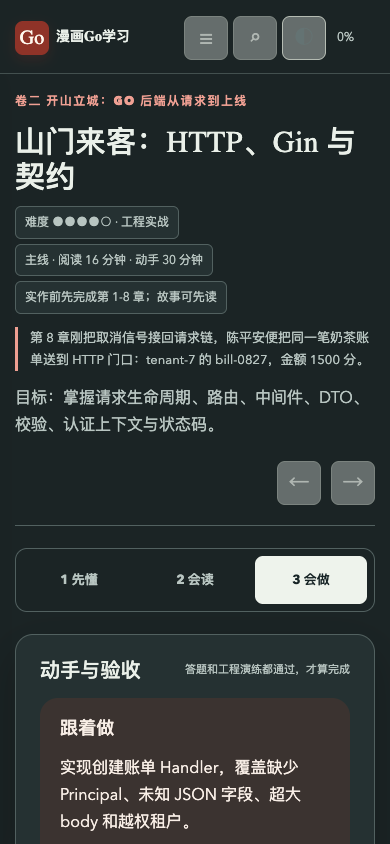
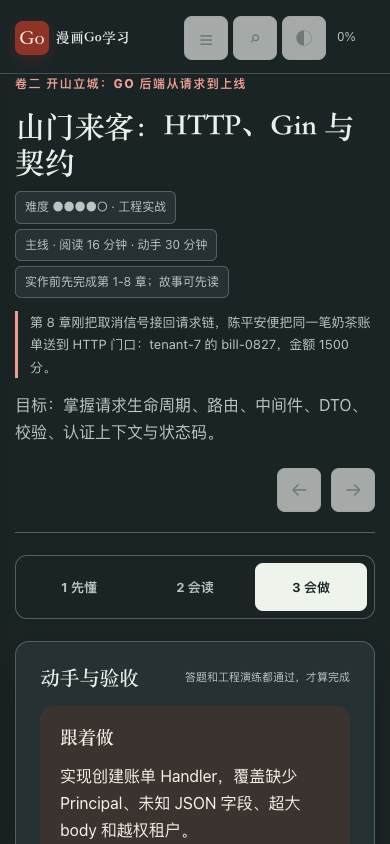
style: elevate aesthetics to refined ink-paper and craft engineering taste

diff --git a/interactive/styles.css b/interactive/styles.css
@@ -1,22 +1,22 @@
 :root {
-  --paper: #f5f1e9;
-  --paper-strong: #fffdf8;
-  --ink: #202a2c;
-  --muted: #526466;
-  --line: #ddd6c8;
-  --green: #98e56f;
-  --green-deep: #2d6a3e;
+  --paper: #f7f4ed;
+  --paper-strong: #fefdfa;
+  --ink: #1c2628;
+  --muted: #4e6063;
+  --line: #dbd4c5;
+  --green: #b54732;
+  --green-deep: #245834;
   --red: #8f3328;
-  --red-soft: #f7e5de;
-  --teal: #dcebe8;
-  --blue: #32616a;
-  --shadow: 0 18px 45px rgba(56, 48, 35, .08);
-  --radius: 18px;
+  --red-soft: #faeee9;
+  --teal: #e2ece9;
+  --blue: #2b555e;
+  --shadow: 0 16px 40px rgba(38, 32, 24, .06), 0 2px 6px rgba(38, 32, 24, .03);
+  --radius: 14px;
 }
 
 * { box-sizing: border-box; }
 html { scroll-behavior: smooth; }
-body { margin: 0; color: var(--ink); background: var(--paper); font-family: "Avenir Next", "Noto Sans CJK SC", "PingFang SC", system-ui, sans-serif; line-height: 1.7; }
+body { margin: 0; color: var(--ink); background: var(--paper); font-family: -apple-system, BlinkMacSystemFont, "Segoe UI", "PingFang SC", "Hiragino Sans GB", "Noto Sans CJK SC", "Microsoft YaHei", sans-serif; line-height: 1.7; -webkit-font-smoothing: antialiased; -moz-osx-font-smoothing: grayscale; }
 button, input, textarea { font: inherit; }
 button { cursor: pointer; }
 button:active { transform: translateY(1px); }
@@ -25,9 +25,9 @@ button:focus-visible, a:focus-visible, input:focus-visible, textarea:focus-visib
 .sr-only { position: absolute; width: 1px; height: 1px; padding: 0; margin: -1px; overflow: hidden; clip: rect(0, 0, 0, 0); white-space: nowrap; border: 0; }
 .topbar { height: 72px; padding: 0 28px; display: flex; align-items: center; justify-content: space-between; position: sticky; top: 0; z-index: 20; background: color-mix(in srgb, var(--paper) 90%, transparent); backdrop-filter: blur(16px); border-bottom: 1px solid color-mix(in srgb, var(--line) 72%, transparent); }
 .brand { display: flex; align-items: center; gap: 11px; min-height: 44px; color: inherit; text-decoration: none; }
-.brand-mark { width: 34px; height: 34px; border-radius: 8px; display: grid; place-items: center; color: #fff8ef; background: #8f3328; font-family: serif; font-size: 20px; box-shadow: 0 5px 12px rgba(143, 51, 40, .2); }
+.brand-mark { width: 34px; height: 34px; border-radius: 8px; display: grid; place-items: center; color: #fff8ef; background: #8f3328; font-family: "Songti SC", "Source Han Serif SC", STSong, Georgia, serif; font-size: 20px; box-shadow: 0 5px 12px rgba(143, 51, 40, .2); }
 .brand strong, .brand small { display: block; line-height: 1.2; }
-.brand strong { font-family: serif; letter-spacing: .08em; }
+.brand strong { font-family: "Songti SC", "Source Han Serif SC", STSong, Georgia, serif; letter-spacing: .08em; }
 .brand small { color: var(--muted); font-size: 11px; margin-top: 3px; }
 .top-actions, .unit-actions, .welcome-actions { display: flex; align-items: center; gap: 10px; }
 .icon-button { border: 1px solid var(--line); background: var(--paper-strong); color: var(--ink); width: 44px; height: 44px; border-radius: 8px; display: grid; place-items: center; font-size: 20px; transition: .2s ease; }
@@ -52,25 +52,28 @@ button:focus-visible, a:focus-visible, input:focus-visible, textarea:focus-visib
 .main-content { width: min(1060px, 100%); min-width: 0; margin: 0 auto; padding: 42px clamp(20px, 4vw, 56px) 80px; }
 .welcome { display: grid; grid-template-columns: minmax(0, 1fr) 380px; min-height: 620px; align-items: center; gap: 40px; }
 .eyebrow { margin: 0 0 14px; color: var(--red); font-size: 12px; font-weight: 800; letter-spacing: .12em; text-transform: uppercase; }
-h1, h2, h3 { font-family: serif; font-weight: 500; line-height: 1.15; letter-spacing: .01em; }
-h1 { margin: 0; font-size: clamp(44px, 6vw, 76px); }
+h1, h2, h3 { font-family: "Songti SC", "Source Han Serif SC", "Noto Serif CJK SC", STSong, Georgia, serif; font-weight: 600; line-height: 1.18; letter-spacing: -.01em; }
+h1 { margin: 0; font-size: clamp(44px, 6vw, 72px); }
 h1 em { color: var(--red); font-style: normal; }
-.lead { max-width: 510px; margin: 26px 0 28px; color: var(--muted); font-size: 17px; }
-.primary-button, .secondary-button { border: 0; border-radius: 13px; padding: 12px 18px; color: var(--ink); background: var(--green); box-shadow: 0 8px 18px rgba(71, 129, 65, .15); font-weight: 700; transition: .2s ease; }
-.primary-button:hover, .secondary-button:hover { transform: translateY(-2px); box-shadow: 0 12px 22px rgba(71, 129, 65, .2); }
+.lead { max-width: 510px; margin: 24px 0 28px; color: var(--muted); font-size: 17px; line-height: 1.75; }
+.primary-button, .secondary-button { border: 1px solid rgba(0,0,0,.08); border-radius: 10px; padding: 12px 20px; color: #fffdf8; background: var(--green); box-shadow: 0 4px 14px rgba(143, 51, 40, .20); font-weight: 650; letter-spacing: .02em; transition: transform .18s ease, box-shadow .18s ease, filter .18s ease; }
+.primary-button:hover, .secondary-button:hover { transform: translateY(-1px); filter: brightness(1.04); box-shadow: 0 6px 18px rgba(143, 51, 40, .26); }
 .primary-button span, .secondary-button span { margin-left: 8px; }
-.text-button { border: 0; background: transparent; color: var(--blue); padding: 10px; }
+.text-button { border: 0; background: transparent; color: var(--blue); padding: 10px; font-weight: 600; }
 .stat-strip { display: flex; gap: 22px; margin-top: 42px; color: var(--muted); font-size: 12px; }
 .learning-paths { display: grid; grid-template-columns: repeat(2, 1fr); gap: 8px; margin-top: 22px; }.learning-paths button { min-height: 64px; padding: 10px 12px; display: grid; gap: 3px; text-align: left; border: 1px solid var(--line); border-radius: 8px; color: var(--ink); background: var(--paper-strong); }.learning-paths button:hover { border-color: var(--blue); }.learning-paths span { color: var(--muted); font-size: 11px; }
 .stat-strip strong { color: var(--ink); font-size: 19px; margin-right: 3px; }
-.welcome-scene { min-height: 500px; position: relative; overflow: hidden; border-radius: 38% 38% 20px 20px; background: linear-gradient(145deg, #f1d9c1, #d2dfdb 65%, #b6c7bf); box-shadow: var(--shadow); }
-.mountain { position: absolute; bottom: 110px; width: 0; height: 0; border-left: 170px solid transparent; border-right: 170px solid transparent; border-bottom: 270px solid rgba(102, 143, 143, .35); }
-.mountain-one { left: -80px; transform: rotate(-9deg); }.mountain-two { right: -110px; bottom: 80px; transform: scale(1.2) rotate(8deg); border-bottom-color: rgba(172, 117, 111, .28); }
-.scene-table { position: absolute; left: 12%; right: 7%; bottom: 0; height: 30%; border-radius: 60% 60% 0 0; background: #795947; transform: rotate(-4deg); box-shadow: inset 0 12px 0 rgba(255,255,255,.12); }
-.scene-figure { position: absolute; bottom: 18%; width: 84px; height: 200px; border-radius: 50% 50% 18px 18px; box-shadow: 0 10px 0 rgba(40, 52, 50, .08); }
-.figure-al { left: 20%; background: linear-gradient(#364f54 0 24%, #1c3237 24% 100%); transform: rotate(6deg); }.figure-chen { right: 18%; background: linear-gradient(#283b51 0 24%, #a3b8b7 24% 100%); transform: rotate(-4deg); }
-.scene-dog { position: absolute; left: 46%; bottom: 25%; width: 62px; height: 42px; border-radius: 50% 50% 45% 45%; background: #d3ab77; color: #573e31; display: grid; place-items: center; font-size: 29px; transform: rotate(-8deg); }
-.scene-note { position: absolute; top: 14%; right: 10%; padding: 12px 14px; border: 1px solid rgba(67, 107, 104, .2); border-radius: 12px; background: rgba(255,253,248,.78); color: var(--red); font-size: 12px; transform: rotate(4deg); }.scene-note b { color: var(--ink); font-size: 16px; }
+.welcome-scene { min-height: 500px; position: relative; overflow: hidden; border-radius: 28px; border: 1px solid var(--line); background: radial-gradient(circle at 75% 20%, #fdf8ee 0%, #ebdfcf 45%, #d1deda 100%); box-shadow: var(--shadow); }
+.mountain { position: absolute; bottom: 100px; width: 0; height: 0; border-left: 170px solid transparent; border-right: 170px solid transparent; border-bottom: 270px solid rgba(80, 118, 117, .28); filter: drop-shadow(0 4px 12px rgba(40,50,50,.08)); }
+.mountain-one { left: -70px; transform: rotate(-8deg); }
+.mountain-two { right: -100px; bottom: 75px; transform: scale(1.15) rotate(7deg); border-bottom-color: rgba(150, 95, 88, .22); }
+.scene-table { position: absolute; left: 10%; right: 6%; bottom: 0; height: 28%; border-radius: 40px 40px 0 0; background: #5c4132; transform: rotate(-2.5deg); box-shadow: inset 0 8px 0 rgba(255,255,255,.09), 0 -8px 24px rgba(0,0,0,.08); }
+.scene-figure { position: absolute; bottom: 16%; width: 84px; height: 200px; border-radius: 42px 42px 16px 16px; box-shadow: 0 12px 24px rgba(28, 38, 36, .12); }
+.figure-al { left: 20%; background: linear-gradient(#2d4145 0 24%, #18282b 24% 100%); transform: rotate(5deg); }
+.figure-chen { right: 18%; background: linear-gradient(#243444 0 24%, #94aba9 24% 100%); transform: rotate(-3deg); }
+.scene-dog { position: absolute; left: 46%; bottom: 23%; width: 62px; height: 42px; border-radius: 50% 50% 45% 45%; background: #d3ab77; color: #573e31; display: grid; place-items: center; font-size: 29px; transform: rotate(-6deg); box-shadow: 0 6px 16px rgba(60,40,30,.12); }
+.scene-note { position: absolute; top: 14%; right: 10%; padding: 12px 16px; border: 1px solid rgba(143, 51, 40, .2); border-radius: 10px; background: rgba(254, 253, 250, .92); backdrop-filter: blur(8px); color: var(--red); font-size: 12px; transform: rotate(3deg); box-shadow: 0 8px 20px rgba(0,0,0,.06); }
+.scene-note b { color: var(--ink); font-size: 16px; display: block; margin-top: 2px; }
 .hidden { display: none !important; }
 .unit-header { display: flex; justify-content: space-between; align-items: flex-start; gap: 22px; min-width: 0; padding-bottom: 20px; border-bottom: 1px solid var(--line); }.unit-header > div:first-child { min-width: 0; }
 .unit-header h1 { margin: 0; font-size: clamp(30px, 4vw, 46px); }.unit-goal { max-width: 760px; margin: 14px 0 0; color: var(--muted); }
@@ -147,7 +150,7 @@ body.dark { --paper: #1b2425; --paper-strong: #253132; --ink: #eaf0e9; --muted: 
 .quiz-item.review { padding-left: 12px; border-left: 3px solid var(--red); }
 .quiz-choices { display: grid; gap: 8px; margin: 0 0 12px; }.quiz-choices label { min-height: 48px; padding: 11px 13px; display: flex; align-items: flex-start; gap: 11px; border: 1px solid var(--line); border-radius: 8px; cursor: pointer; background: var(--paper-strong); transition: border-color .16s ease, background .16s ease; }.quiz-choices label:hover { border-color: color-mix(in srgb, var(--blue) 60%, var(--line)); }.quiz-choices label:has(input:checked) { border-color: var(--blue); background: var(--teal); box-shadow: inset 3px 0 0 var(--blue); }.quiz-choices input { flex: 0 0 auto; margin: 5px 0 0; accent-color: var(--blue); }.quiz-choices span { min-width: 0; }.answer.open, .quiz-item.open .answer { display: block; }.answer b { color: var(--green-deep); }.quiz-item.review .answer b { color: var(--red); }.supplement-quiz { margin-top: 16px; padding: 14px; border-top: 1px solid var(--line); }
 .flow-node { color: var(--ink); }
-.dark .secondary-button { color: #172426; }
+.dark .secondary-button { color: #fffdf8; background: #b54732; border: 1px solid rgba(255,255,255,.12); }
 .dark .answer-button, .dark button[data-submit-workshop] { color: #172426; }
 .dark .capstone-download-btn { color: #172426 !important; background: var(--blue); }
 .dark .ribbon-step.active { color: #172426; background: #eef3ec; }
